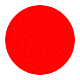
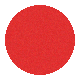
Small interface changes

diff --git a/WPFUI/Views/GameView.xaml b/WPFUI/Views/GameView.xaml
@@ -20,28 +20,35 @@
 		<helpers:ChipTemplateSelector x:Key="ChipTemplateSelector"
 									  Player1Template="{StaticResource Player1Template}"
 									  Player2Template="{StaticResource Player2Template}"/>
+
+		<Style TargetType="Button" BasedOn="{StaticResource BaseButtonStyle}"/>
 	</UserControl.Resources>
 
 	<Grid x:Name="LayoutGrid">
 		<Grid.ColumnDefinitions>
 			<ColumnDefinition Width="auto"/>
-			<ColumnDefinition Width="*"/>
+			<ColumnDefinition Width="auto"/>
 		</Grid.ColumnDefinitions>
 		<Grid.RowDefinitions>
 			<RowDefinition Height="auto"/>
 			<RowDefinition Height="*"/>
 		</Grid.RowDefinitions>
 
-		<StackPanel Grid.Row="1" Grid.Column="0">
-			<TextBlock Grid.Row="1" Grid.Column="0">
-				<Run Text="Beurt: "/>
-				<Run Text="{Binding Path=Game.Turn}"/>
-				<Run Text=", speler "/>
-				<Run Text="{Binding Path=Game.CurrentPlayer, Mode=OneWay}"/>
-				<Run Text=" is aan zet."/>
-			</TextBlock>
+		<StackPanel Grid.Row="1" 
+					Grid.Column="0"
+					Margin="10"
+					MaxWidth="80">
+			<ContentControl 
+				Content="{Binding Path=Preview}" 
+				ContentTemplateSelector="{StaticResource ChipTemplateSelector}"
+				MaxHeight="40"
+				MaxWidth="40"/>
 
-			<Button Grid.Row="0" Grid.Column="2" Content="Opnieuw" Command="{Binding RestartCommand}"/>
+			<Button 
+				Grid.Row="0" 
+				Grid.Column="2" 
+				Content="Herstarten" 
+				Command="{Binding RestartCommand}"/>
 		</StackPanel>
 
 		<UniformGrid x:Name="GameGrid" 
@@ -91,12 +98,18 @@
 		<Popup x:Name="GameOverPopup"
 			   PlacementTarget="{Binding ElementName=LayoutGrid}"
 			   Placement="Center"
-			   PopupAnimation="Slide"
-			   Width="100"
-			   Height="100"
+			   PopupAnimation="Fade"
+			   Width="auto"
+			   Height="auto"
+			   Margin="10"
 			   AllowsTransparency="True"
 			   IsOpen="{Binding Game.Finished, Mode=OneWay}">
 			<StackPanel Background="LightGray">
+				<ContentControl 
+					Content="{Binding Path=Preview}" 
+					ContentTemplateSelector="{StaticResource ChipTemplateSelector}"
+					MaxHeight="40"
+					MaxWidth="40"/>
 				<TextBlock>
 					<Run Text="Speler "/>
 					<Run Text="{Binding Game.CurrentPlayer, Mode=OneWay}"/>

diff --git a/WPFUI/Views/MenuView.xaml b/WPFUI/Views/MenuView.xaml
@@ -8,32 +8,10 @@
              d:DesignHeight="810.785" d:DesignWidth="899.897">
 
 	<UserControl.Resources>
-		<Style TargetType="Button">
-			<Setter Property="FontFamily" Value="Quicksand"/>
+		<Style TargetType="Button" BasedOn="{StaticResource BaseButtonStyle}">
 			<Setter Property="FontSize" Value="32"/>
-			<Setter Property="Background" Value="#E65555"/>
-			<Setter Property="Foreground" Value="White"/>
 			<Setter Property="MaxHeight" Value="200"/>
 			<Setter Property="MaxWidth" Value="200"/>
-			<Setter Property="Template">
-				<Setter.Value>
-					<ControlTemplate TargetType="{x:Type Button}">
-						<Border x:Name="border" Background="{TemplateBinding Background}" BorderBrush="Transparent" BorderThickness="2">
-							<ContentPresenter HorizontalAlignment="Center" VerticalAlignment="Center"/>
-							<Border.Style>
-								<Style TargetType="{x:Type Border}">
-									<Setter Property="CornerRadius" Value="5"/>
-								</Style>
-							</Border.Style>
-						</Border>
-						<ControlTemplate.Triggers>
-							<Trigger Property="IsMouseOver" Value="True">
-								<Setter Property="BorderBrush" TargetName="border" Value="Yellow"/>
-							</Trigger>
-						</ControlTemplate.Triggers>
-					</ControlTemplate>
-				</Setter.Value>
-			</Setter>
 		</Style>
 	</UserControl.Resources>
 
@@ -59,7 +37,8 @@
 
 		<Button Grid.Column="0" 
 				Grid.Row="1"
-				CommandParameter="Game" Content="1 Speler"/>
+				CommandParameter="Game" Content="1 Speler"
+				/>
 		<Button Grid.Column="2"
 				Grid.Row="1"
 				Command="{Binding Path=DataContext.NavigateViewCommand, 

diff --git a/WPFUI/App.xaml b/WPFUI/App.xaml
@@ -11,5 +11,31 @@
 		<DataTemplate DataType="{x:Type viewmodels:GameViewModel}">
 			<views:GameView/>
 		</DataTemplate>
+
+		<Style x:Key="BaseButtonStyle" TargetType="{x:Type Button}">
+			<Setter Property="FontFamily" Value="Quicksand"/>
+			<Setter Property="Background" Value="#e02f2f"/>
+			<Setter Property="Foreground" Value="White"/>
+			<Setter Property="Padding" Value="15"/>
+			<Setter Property="Template">
+				<Setter.Value>
+					<ControlTemplate TargetType="{x:Type Button}">
+						<Border x:Name="border" Background="{TemplateBinding Background}" BorderBrush="Transparent" BorderThickness="2">
+							<ContentPresenter HorizontalAlignment="Center" VerticalAlignment="Center"/>
+							<Border.Style>
+								<Style TargetType="{x:Type Border}">
+									<Setter Property="CornerRadius" Value="5"/>
+								</Style>
+							</Border.Style>
+						</Border>
+						<ControlTemplate.Triggers>
+							<Trigger Property="IsMouseOver" Value="True">
+								<Setter Property="BorderBrush" TargetName="border" Value="Yellow"/>
+							</Trigger>
+						</ControlTemplate.Triggers>
+					</ControlTemplate>
+				</Setter.Value>
+			</Setter>
+		</Style>		
 	</Application.Resources>
 </Application>

diff --git a/WPFUI/Views/MainWindow.xaml b/WPFUI/Views/MainWindow.xaml
@@ -4,7 +4,7 @@
         xmlns:d="http://schemas.microsoft.com/expression/blend/2008"
         xmlns:mc="http://schemas.openxmlformats.org/markup-compatibility/2006"
 		mc:Ignorable="d"
-        Title="MainWindow" MinHeight="480" MinWidth="560" Height="600" Width="800">
+        Title="MainWindow" MinHeight="480" MinWidth="560" Height="600" Width="800" Background="#FFECECEC">
 
 	<Grid>
 		<Grid.ColumnDefinitions>

diff --git a/WPFUI/ViewModels/GameViewModel.cs b/WPFUI/ViewModels/GameViewModel.cs
@@ -27,7 +27,20 @@ namespace WPFUI.ViewModels
 		}
 
 		public ObservableCollection<ChipViewModel> Chips { get; private set; }
-		private ChipViewModel _previewChipViewModel;
+
+		private ChipViewModel _preview;
+		public ChipViewModel Preview
+		{ 
+			get { return _preview; }
+			set
+			{
+				if (_preview == value)
+					return;
+
+				_preview = value;
+				OnPropertyChanged();
+			}
+		}
 
 		public ICommand RestartCommand { get; private set; }
 
@@ -48,13 +61,13 @@ namespace WPFUI.ViewModels
 			if (row == -1)
 				return;
 
-			if (_previewChipViewModel == null)
+			if (Preview == null)
 			{
-				_previewChipViewModel = new ChipViewModel();
-				Chips.Add(_previewChipViewModel);
+				Preview = new ChipViewModel();
+				Chips.Add(Preview);
 			}
 
-			var previewChip = _previewChipViewModel.Chip;
+			var previewChip = Preview.Chip;
 			previewChip.Column = column;
 			previewChip.Row = row;
 			previewChip.Player = Game.CurrentPlayer;
@@ -66,7 +79,7 @@ namespace WPFUI.ViewModels
 		/// <param name="column">Index between 0 (inclusive) and <see cref="Game.COLUMNS"/>(exlusive)</param>
 		public void DoMove(int column)
 		{
-			if (Game.Finished || _previewChipViewModel == null)
+			if (Game.Finished || Preview == null)
 				return;
 
 			var row = GetEmptyRowIndex(column);
@@ -75,11 +88,10 @@ namespace WPFUI.ViewModels
 
 			Game.Board[column, row] = Game.CurrentPlayer;
 
-			var chip = _previewChipViewModel.Chip;
+			var chip = Preview.Chip;
 			chip.Row = row;
 			chip.Column = column;
 			chip.Player = Game.CurrentPlayer;
-			_previewChipViewModel = null;
 
 			if (HasCurrentPlayerWon())
 			{
@@ -87,15 +99,15 @@ namespace WPFUI.ViewModels
 				return;
 			}
 
+			Preview = null;
 			Game.Turn++;
-			UpdateMovePreview(column);
 		}
 
 		public void Restart()
 		{
 			Game = new Game();
 			Chips.Clear();
-			_previewChipViewModel = null;
+			Preview = null;
 		}
 
 		/// <summary>

diff --git a/WPFUI/Views/GameView.xaml.cs b/WPFUI/Views/GameView.xaml.cs
@@ -40,9 +40,9 @@ namespace WPFUI.Views
 		{
 			var clickPos = mousePoint.GetPosition(el);
 			var gridWidth = el.ActualWidth;
-			var xPosClickPercentage = clickPos.X / gridWidth;
+			var xPercentage = clickPos.X / gridWidth;
 			
-			return (int)(Game.COLUMNS * xPosClickPercentage);
+			return (int)(Game.COLUMNS * xPercentage);
 		}
 	}
 }
